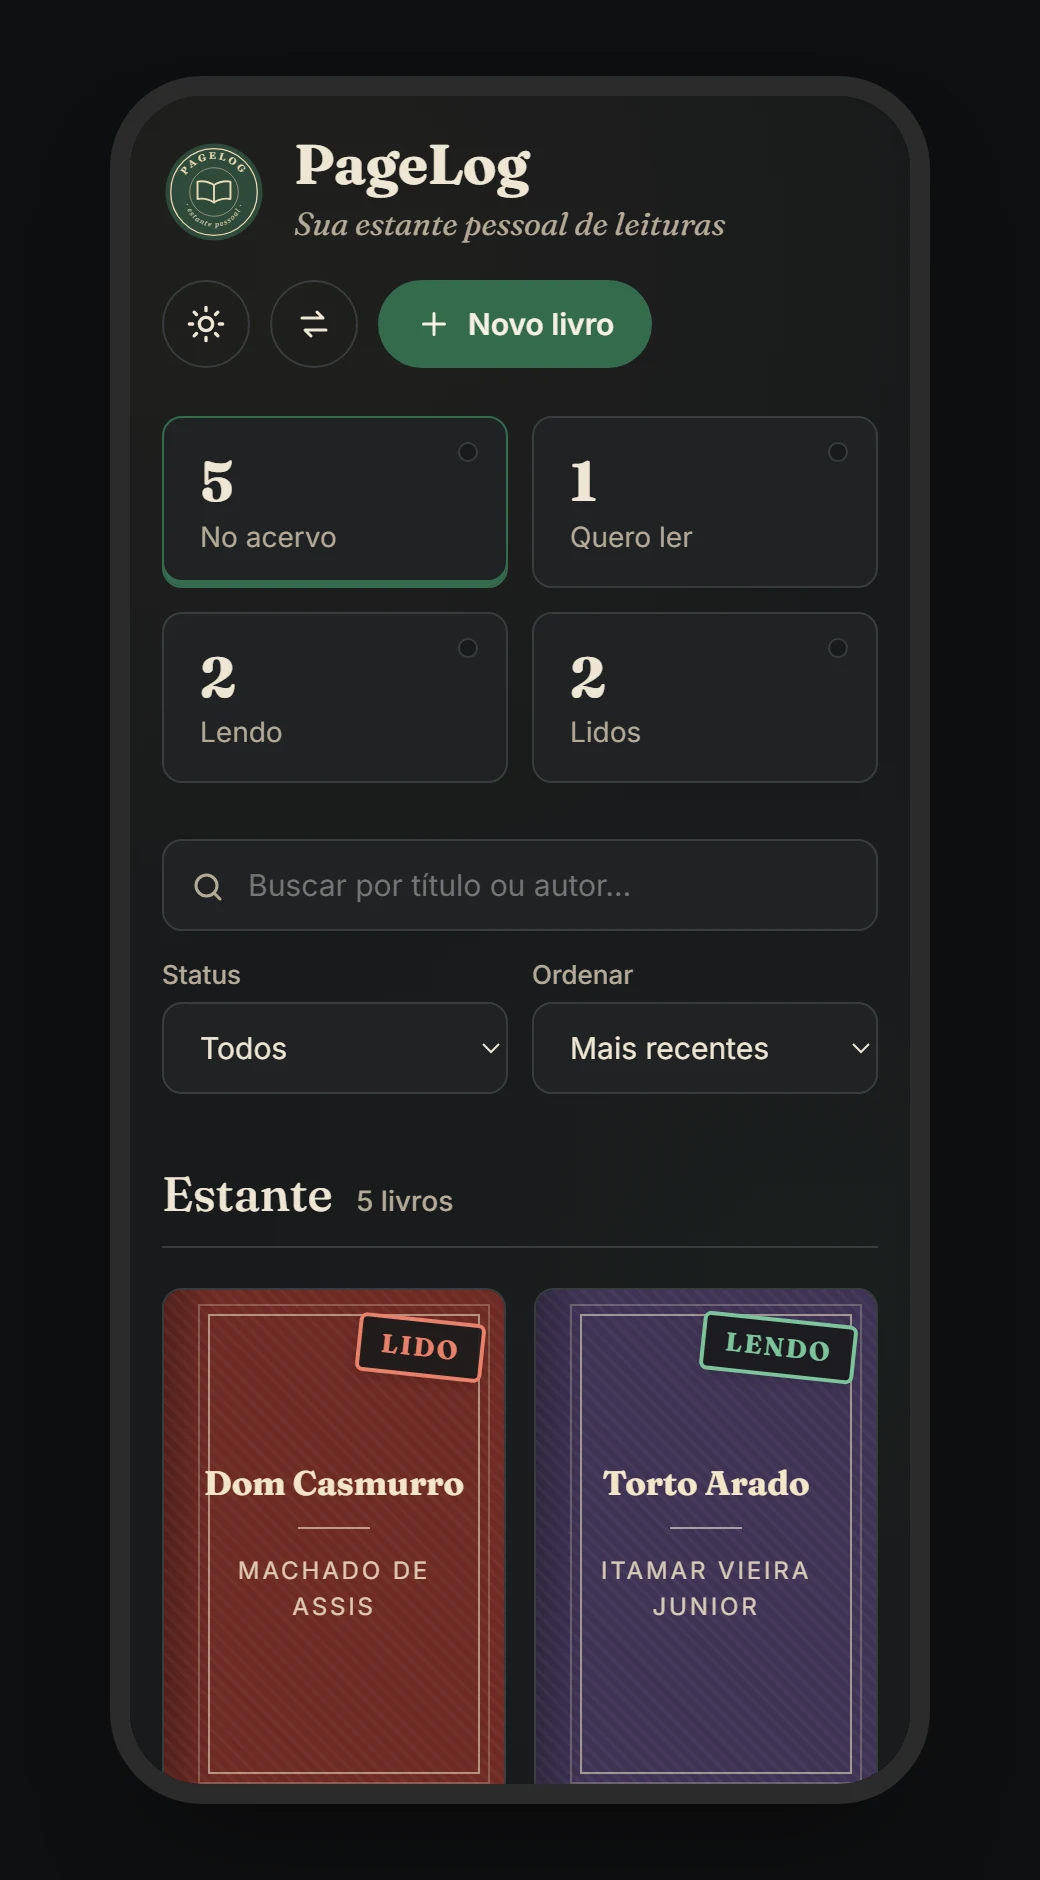
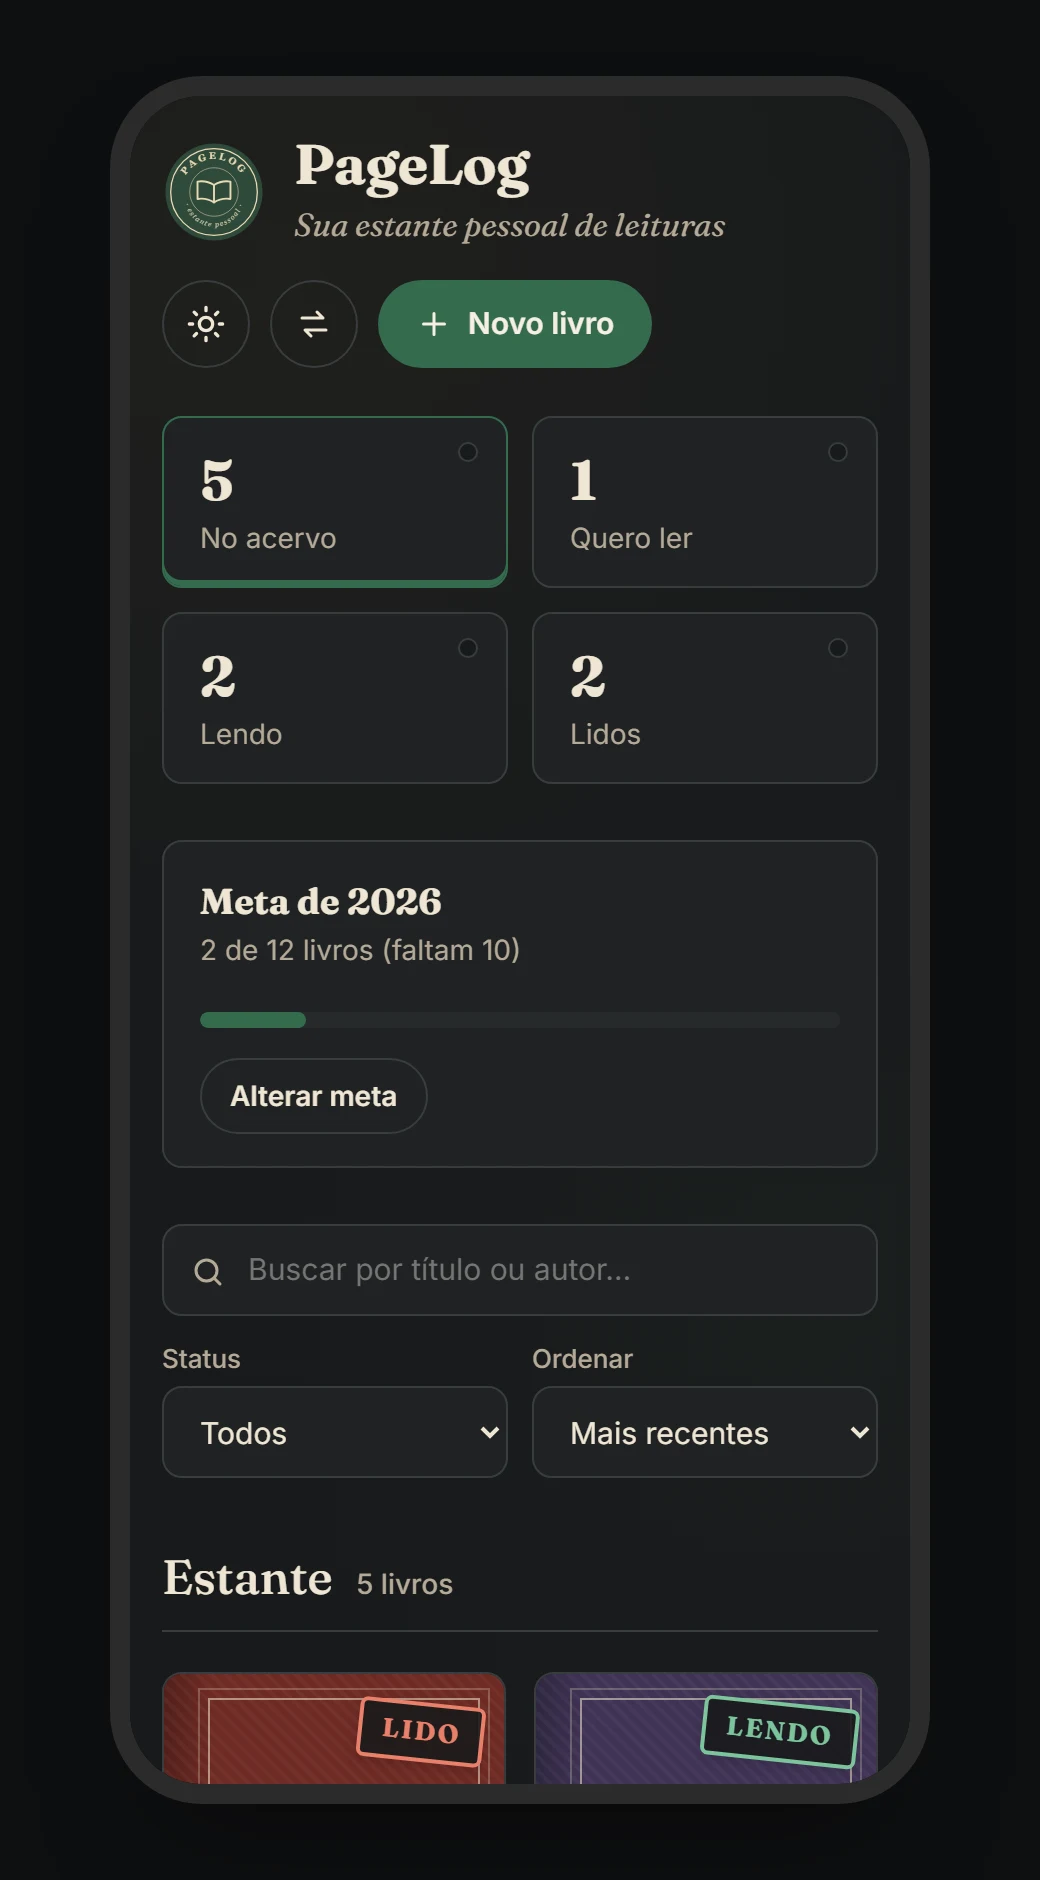
corrige botoes com hidden aparecendo, atualiza capturas e readme

diff --git a/js/transferir.js b/js/transferir.js
@@ -297,11 +297,15 @@ export async function confirmImport(mode) {
   } else {
     const result = mergeBooks(state.pendingImport);
     state.books = result.books;
-    message = "Estante importada: " + plural(result.added, "novo", "novos");
-    if (result.updated > 0) {
-      message += ", " + plural(result.updated, "atualizado", "atualizados");
+    if (result.added === 0 && result.updated === 0) {
+      message = "Nada novo: sua estante já estava em dia.";
+    } else {
+      message = "Estante importada: " + plural(result.added, "novo", "novos");
+      if (result.updated > 0) {
+        message += ", " + plural(result.updated, "atualizado", "atualizados");
+      }
+      message += ".";
     }
-    message += ".";
   }
 
   state.pendingImport = null;

diff --git a/style.css b/style.css
@@ -87,6 +87,13 @@
 }
 
 /* reset */
+
+/* garante que o atributo hidden sempre esconde
+   (sem isso, classes como .btn com display: inline-flex ganham do hidden) */
+[hidden] {
+  display: none !important;
+}
+
 *,
 *::before,
 *::after {
@@ -1080,8 +1087,9 @@ body {
 /* campos de paginas no formulario */
 .progress-fields {
   display: grid;
-  grid-template-columns: repeat(3, 1fr);
+  grid-template-columns: repeat(auto-fit, minmax(120px, 1fr));
   gap: 10px;
+  align-items: end;
 }
 
 .progress-fields [hidden] {

diff --git a/README.md b/README.md
@@ -16,6 +16,7 @@ Feito com **HTML, CSS e JavaScript puro**, sem frameworks e sem bibliotecas.
 ![JavaScript](https://img.shields.io/badge/JavaScript-F7DF1E?style=flat&logo=javascript&logoColor=black)
 ![localStorage](https://img.shields.io/badge/dados-localStorage-2f4a3a?style=flat)
 ![Netlify](https://img.shields.io/badge/deploy-Netlify-00C7B7?style=flat&logo=netlify&logoColor=white)
+![PWA](https://img.shields.io/badge/PWA-instal%C3%A1vel%20e%20offline-5A0FC8?style=flat&logo=pwa&logoColor=white)
 
 </div>
 
@@ -24,7 +25,8 @@ Feito com **HTML, CSS e JavaScript puro**, sem frameworks e sem bibliotecas.
 ## 📸 Telas
 
 <p align="center">
-  <img src="docs/capturas/estante.webp" alt="Estante do PageLog com os totais, busca, filtros e cinco livros" width="100%">
+  <img src="docs/capturas/estante.webp" alt="Estante do PageLog com os totais, a meta do ano, busca, filtros e cinco livros" width="100%">
+  <br><em>Estante com meta do ano, progresso de leitura e uma capa enviada do aparelho</em>
 </p>
 
 <p align="center">
@@ -62,7 +64,10 @@ Depois de entregar, voltei nele para melhorar. Corrigi bugs que tinham passado (
 ## ✨ Funcionalidades
 
 - Cadastrar, editar e excluir livros (título, autor, capa, status, nota e anotação)
+- **Progresso de leitura**: página atual e total, com barra de progresso nos livros que estou lendo
+- **Meta do ano**: quantos livros quero ler e quantos já terminei (conta pela data em que terminei)
 - Capa com **imagem do próprio aparelho** (galeria ou câmera no celular) ou por link, com prévia no formulário
+- **Buscar capa** pela [Open Library](https://openlibrary.org/developers/api): mostra algumas capas para escolher e já completa autor e número de páginas
 - Capa gerada automaticamente quando o livro não tem imagem ou o link da capa quebra
 - Totais por status no topo, que também funcionam como filtro
 - Busca por título ou autor ignorando acentos ("codigo" encontra "Código Limpo")
@@ -71,6 +76,7 @@ Depois de entregar, voltei nele para melhorar. Corrigi bugs que tinham passado (
 - Excluir com opção de **desfazer**
 - **Levar a estante para outro aparelho** (começar no celular e continuar no PC) por link ou por arquivo de backup
 - Tema claro e escuro (segue o sistema, mas dá para trocar no botão)
+- **Instalável como app** no celular e no PC, e funciona **sem internet**
 - Botão "Ver exemplos" para quem quer só conhecer o app
 - Tudo salvo no navegador, sem servidor
 
@@ -80,25 +86,46 @@ Depois de entregar, voltei nele para melhorar. Corrigi bugs que tinham passado (
 
 O site está no ar em **[pagelog-leituras.netlify.app](https://pagelog-leituras.netlify.app)** (o Netlify publica de novo a cada push na `main`).
 
-Para rodar localmente não precisa instalar nada:
+Para rodar localmente não precisa instalar nenhuma dependência, mas precisa de um servidor local, porque o JavaScript usa módulos (`import`/`export`) e o navegador não carrega módulos abrindo o arquivo direto (`file://`):
 
 ```bash
 git clone https://github.com/gustavomenacho/Gerenciador-de-Leituras.git
 cd Gerenciador-de-Leituras
+npx serve .
 ```
 
-Depois é só abrir o `index.html` no navegador ou usar a extensão **Live Server** do VS Code.
+Ou use a extensão **Live Server** do VS Code. Com Python também funciona: `python -m http.server`.
+
+**Instalar no celular:** abra o site no Chrome (Android) e toque em "Instalar o PageLog" no rodapé ou em "Adicionar à tela inicial" no menu. No iPhone, use Compartilhar → "Adicionar à Tela de Início".
 
 ---
 
 ## 🗂 Arquivos
 
 ```
-index.html        estrutura da página e janelas (dialog)
-style.css         estilos, cores do tema claro e escuro, responsivo
-script.js         lógica: salvar, mostrar, filtrar, capas, importar/exportar
-assets/           logo e favicon
-docs/capturas/    imagens do README
+index.html             estrutura da página e janelas (dialog)
+style.css              estilos, cores do tema claro e escuro, responsivo
+manifest.webmanifest   dados do app instalável (nome, ícones, cores)
+sw.js                  service worker: guarda os arquivos para funcionar offline
+js/
+  main.js              liga os eventos e inicia a página
+  estado.js            variáveis compartilhadas (lista de livros etc.)
+  constantes.js        valores fixos e livros de exemplo
+  elementos.js         referências aos elementos do HTML
+  utils.js             funções pequenas usadas em vários lugares
+  dados.js             formato do livro, salvar e carregar do localStorage
+  tela.js              desenha os cards, totais e filtros
+  formulario.js        cadastro/edição, estrelas e capa no formulário
+  capas.js             capas do aparelho no IndexedDB
+  openlibrary.js       busca de capas na Open Library
+  meta.js              meta de leitura do ano
+  acoes.js             excluir, desfazer, exemplos, avisos
+  tema.js              tema claro/escuro
+  transferir.js        levar a estante por link ou arquivo
+  pwa.js               registra o service worker e o botão de instalar
+fonts/                 Fraunces e Inter (licença OFL)
+assets/                logo, favicon e ícones do app
+docs/capturas/         imagens do README
 ```
 
 ---
@@ -123,6 +150,18 @@ docs/capturas/    imagens do README
 - **mostrar** com `URL.createObjectURL()`, que cria um endereço temporário para o `<img>` usar a imagem salva.
 
 Quando a página abre, ela carrega as capas e apaga as que sobraram de livros excluídos. Não apago na hora de excluir porque aí o "Desfazer" perderia a capa.
+
+**Progresso e meta.** Cada livro guarda `pagesRead`, `pagesTotal` e `finishedAt`. A barra usa o elemento `<progress>`, que já é acessível. Quando marco um livro como "Lido", o formulário preenche a data de hoje e completa as páginas. A meta conta os livros com `finishedAt` no ano atual. Para pegar a data de hoje usei `getFullYear/getMonth/getDate` em vez de `toISOString()`, porque o `toISOString` converte para o horário de Londres e à noite dava o dia seguinte.
+
+**Consumir uma API pública (Open Library).** O botão "Buscar capa" usa `fetch` na API de busca da Open Library com `URLSearchParams` e mostra só os resultados que têm capa. Coloquei um tempo limite com `AbortController` (se a API demorar mais de 8 segundos, cancela) e mensagens para "sem resultado" e "sem internet". A busca só acontece quando clico no botão, nunca enquanto digito.
+
+**Separar em módulos.** O `script.js` tinha passado de 1.400 linhas. Dividi em arquivos por assunto com `import`/`export`. Uma coisa que aprendi: um módulo não consegue mudar uma variável `let` de outro módulo, então as variáveis compartilhadas (como a lista de livros) ficam num objeto `state` em `estado.js`.
+
+**App instalável e offline (PWA).** O `manifest.webmanifest` diz ao navegador o nome, os ícones e as cores do app, e isso permite instalar. O `sw.js` é um service worker: na instalação ele guarda os arquivos do site no aparelho, e depois intercepta os pedidos. Usei "rede primeiro": com internet pega a versão nova; sem internet usa a cópia guardada. Testei derrubando o servidor e o site continuou abrindo. As capas da Open Library ficam num cache separado para aparecerem offline também.
+
+**Fontes no próprio site.** Antes as fontes vinham do Google Fonts, que é um pedido a outro servidor antes de mostrar o texto. Baixei só os arquivos `.woff2` do alfabeto latino (são fontes variáveis, um arquivo cobre vários pesos) e uso `@font-face` com `preload`. Fica mais rápido e funciona offline.
+
+**Um bug com `hidden`.** Botões com `hidden` continuavam aparecendo. O motivo: a classe `.btn` tem `display: inline-flex`, e isso ganha da regra padrão do navegador para `[hidden]`. Resolvi com `[hidden] { display: none !important; }`.
 
 **Levar a estante sem servidor.** Como o `localStorage` é de cada navegador, os livros do celular não aparecem no PC. Para resolver sem precisar de login e banco de dados:
 - **Link:** transformo a estante em JSON, comprimo com `CompressionStream`, converto para base64 e coloco depois do `#` no link. O que vem depois do `#` não vai para o servidor, então os dados passam direto de um navegador para o outro.
